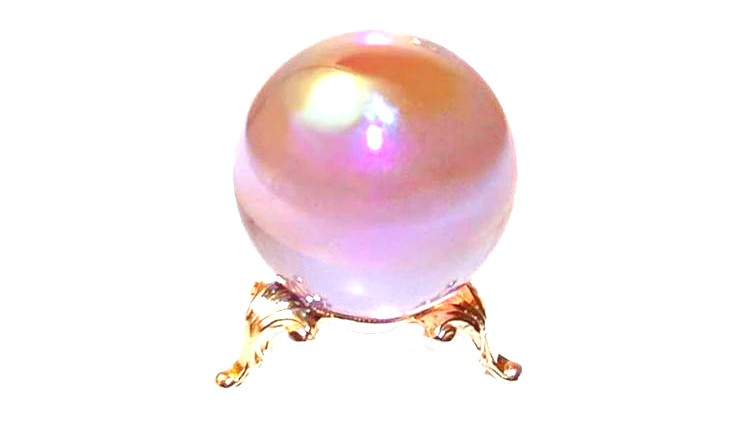
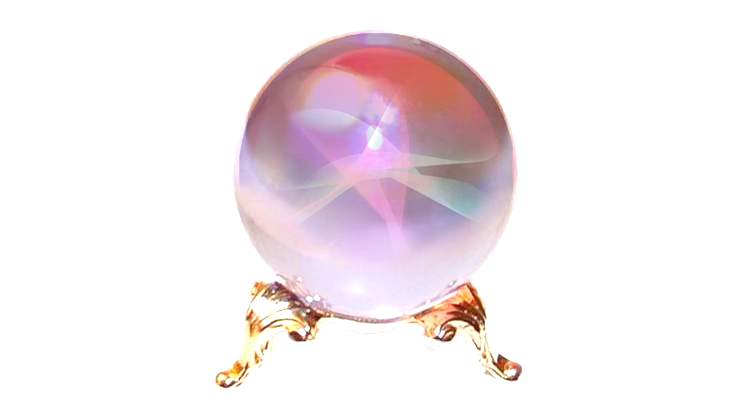
upload

Changed region(s): [[0.2812, 0.0605, 0.7188, 0.9975]]

diff --git a/index.html b/index.html
@@ -23,14 +23,6 @@
 
 </head>
 <body class="page">
-    <!-- Popups -->
-     <div class="popup hide greentext">
-        Oh dear...
-     </div>
-     <div class="popup1 hide greentext">
-        Not looking good...
-     </div>
-
      <div class="popupimg1 hide"><img src="abc-logo-1988.png" alt=""></div>
      <div class="popupimg2 hide"><img src="bbclogo.png" alt=""></div>
 
@@ -43,20 +35,27 @@
     <div class="Btitle pt italic">Techgnosis</div>
     <div class="bggreen height"></div>
     <div class="container">
-        <div class="Vfont width19 al mpt">Tarot Card Reading<br>Astral Glimmers<br>Escape Velocity<br>Juxtapositions<br>Crystal Ball Reading<br>Enigmatic Currents<br>Enlightenment Myth<br>Deep Weirdness<br>Algorithmic Agents<br>Editor's Note</div>
-        <div class="Vfont width19 ar mpt">1<br>2<br>3<br>4<br>5<br>6<br>7<br>8<br>9<br>10</div>
+        <div class="Vfont width19 al mpt">Tarot Card Reading<br>Astral Glimmers<br>Escape Velocity<br>Juxtapositions<br>Horoscope Reading<br>Enigmatic Currents<br>Enlightenment Myth<br>Deep Weirdness<br>Crystal Ball Reading<br>Algorithmic Agents<br>Editor's Note</div>
+        <div class="Vfont width19 ar mpt">1<br>2<br>3<br>4<br>5<br>6<br>7<br>8<br>9<br>10<br>11</div>
     </div>
 
     <div class="Mtitle ar italic pbs">by Erik Davis</div>
-    <div class="container">
-        <div class="lefthand width50 mt"><img src="lefthand.png" alt=""></div>
-        <div class="bhand width50 mt ml ar"><img src="hand.png" alt=""></div>
+    <div class="greentext bf ac movedown mt">Take a deep breath.<br>Select three cards.</div>
+    <div class="container ac">
+        <div class="lefthand width50"><img src="lefthand.png" alt=""></div>
+        <div class="bhand width50 mll ar"><img src="hand.png" alt=""></div>
     </div>
     <div class="container ac glowimage">
-        <div class="width20 ml ac"><img src="tarot1.png" alt=""></div>
-        <div class="width20 ml ac"><img src="tarot2.png" alt=""></div>
-        <div class="width19 ml ac"><img src="tarot3.png" alt=""></div>
+        <div class="width20 ml ac"><img src="newtarot1.png" alt=""></div>
+        <div class="width20 ml ac"><img src="newtarot2.png" alt=""></div>
+        <div class="width19 ml ac"><img src="newtarot3.png" alt=""></div>
     </div>
+    <div class="container bml ac">
+        <div class="width20 bml greentext bf ac moveup2">Do you rely upon digital connections to fulfill your social life?</div>
+        <div class="width20 greentext bml bf ac moveup2">Do you remember anything from your last doomscroll?</div>
+        <div class="width20 greentext bml bf ac moveup2">Have you lost touch with your offline self?</div>
+    </div>
+    <div class="greentext al moveup">2</div>
     <div class="container">
         <div class="width25 astralhighlight bml">Astral Glimmers</div>
         <div class="width50 bml al quote pbss">There was a peculiar feeling in the air those days, at least in my neck of the woods, an ambient sense of arcane possibility, cultural mutation, and delirious threat that, though it may have only reflected my youth, seemed to presage more epochal changes to come.</div>
@@ -68,16 +67,18 @@
     </div>
     <div class="al bml dissolvingmaintext spt width85">I wrote an article in which I claimed that, in addition to dissolving the concentrated power of mass media, outlets like ABC, the onrushing proliferation of digital content channels and interactive media was going to savage “consensus reality” as well. It wasn’t just the technology that was going to change; the mass mind itself was, in an au courant bit of jargon from Deleuze and Guattari’s A Thousand Plateaus, going molecular. Molecular meant a thousand subcultures.</div>
 
-    <div class="maintext al bml width35 smt">Pockets of alternative practices across the spectrum crackled with millennialist intensity in the early nineties, as if achieving a kind of</div>
+    <div class="greentext al smt">3</div>
+    <div class="maintext al bml width35">Pockets of alternative practices across the spectrum crackled with millennialist intensity in the early nineties, as if achieving a kind of</div>
     <div class="titleescape bml italic al">Escape</div>
     <div class="titleescape bml italic ar bmr pbss">Velocity.</div>
     <div class="container">
         <div class="width25 bml al"></div>
         <div class="maintext al width50 bml">Underground currents of electronic music, psychedelia, rap, ufology, cyberculture, paganism, industrial postpunk, performance art, conspiracy theory, fringe science, mock religion, and other more or less conscious reality hacks invaded the spaces of novelty and possibility that emerged in the cracks of the changing media.</div>
     </div>
+    <div class="greentext al smt">4</div>
     <div class="container">
-        <div class="width25 juxtaposehighlight bml smt pbss">Juxtapositions</div>
-        <div class="width53 bml al quote smt pbss">As a journalist, as well as a heady seeker of sorts, I was already devoted to tracking the juxtaposition of spirituality and the material grit of popular culture, a juxtaposition that in the nineties came to include new technologies, human augmentation tech, and the dawning “space” of digital mediation.</div>
+        <div class="width25 juxtaposehighlight bml pbss">Juxtapositions</div>
+        <div class="width53 bml al quote pbss">As a journalist, as well as a heady seeker of sorts, I was already devoted to tracking the juxtaposition of spirituality and the material grit of popular culture, a juxtaposition that in the nineties came to include new technologies, human augmentation tech, and the dawning “space” of digital mediation.</div>
     </div>
     <div class="container">
         <div class="width30 bml"></div>
@@ -87,9 +88,11 @@
     <div class="al bml maintext spt width85 pbss">As I befriended technopagans or stumbled across cyborg passages in hermetic texts, I felt I no longer had choice in the matter. I was possessed by what Teilhard had called the “demon (or angel) of Research,” which is one way of describing what takes place when the object of study turns around and grabs you by the balls. I had to write TechGnosis</div>
     <div class="container">
         <div class="lefthand width50 mt"><img src="lefthand.png" alt=""></div>
-        <div class="bhand width50 mt ml ar"><img src="hand.png" alt=""></div>
+        <div class="bhand width50 mt mll ar"><img src="hand.png" alt=""></div>
     </div>
-    <div class="width70 ac crystalball"><img src="crystalball.png" alt=""></div>
+    <div class="width33 ac astrology"><img src="astrology.png" alt=""></div>
+    <div class="greentext bf ac moveup1">Please identify your sun, moon, and rising sign<br>...<br>How much of your digital identity is fantasy?<br>Is it a reflection of your hopes and dreams?<br>Where does your true personality lie?<br>Within the stars or within the screens?<br></div>
+    <div class="greentext al mt">6</div>
     <div class="maintext al bml width35">I think TechGnosis continues to speak despite its sometime anachronism because it taps the</div>
     <div class="titleenigmatic bml italic al pbss">Enigmatic</div>
     <div class="titleenigmatic bml italic ar bmr pbss">Currents</div>
@@ -98,9 +101,10 @@
         <div class="maintext al fantasywidth50 bml">of fantasy, hope, and fear that continue to charge our tools, and that speak even more deeply to the profound and peculiar ways those tools shape us in return. These mythic currents are as real as desire, as real as dream; nor do they simply dissipate when we recognize their sway.</div>
     </div>
 
+    <div class="greentext al smt">7</div>
     <div class="container">
-        <div class="width25 enlightenhighlight bml smt pbss">Enlightenment Myth</div>
-        <div class="width53 bml al quote smt pbss">Nonetheless, technoscience continues to propagate the Enlightenment myth of a rational and calculated life without myths, and to promote values like efficiency, productivity, entrepreneurial self-interest, and the absolute adherence to reductionist explanations for all phenomena.</div>
+        <div class="width25 enlightenhighlight bml pbss">Enlightenment Myth</div>
+        <div class="width53 bml al quote pbss">Nonetheless, technoscience continues to propagate the Enlightenment myth of a rational and calculated life without myths, and to promote values like efficiency, productivity, entrepreneurial self-interest, and the absolute adherence to reductionist explanations for all phenomena.</div>
     </div>
     <div class="container">
         <div class="width30 bml"></div>
@@ -114,27 +118,37 @@
         <div class="width20 ml trumpglowimage spt"><img src="trump.png" alt=""></div>
     </div>
 
-    <div class="maintext al bml width35 smt">That these two worlds of day and night are actually one matrix remains our central mystery: a rational world of paradoxically</div>
+    <div class="greentext al smt">8</div>
+    <div class="maintext al bml width35">That these two worlds of day and night are actually one matrix remains our central mystery: a rational world of paradoxically</div>
     <div class="titleweirdness bml italic al pbss">Deep</div>
     <div class="titleweirdness bml italic ar bmr pbss">Weirdness</div>
     <div class="container">
         <div class="width25 bml al"></div>
-        <div class="maintext al width50 bml">where, as in some dying earth genre scenario, technology and mystery lie side-by-side, not so much as explanations of the world but as experiences of the world.</div>
+        <div class="maintext al width50 bml pbss">where, as in some dying earth genre scenario, technology and mystery lie side-by-side, not so much as explanations of the world but as experiences of the world.</div>
     </div>
 
+    <div class="container ac">
+        <div class="lefthand width50 mt moveup"><img src="lefthand.png" alt=""></div>
+        <div class="bhand width50 mt mll ar moveup"><img src="hand.png" alt=""></div>
+    </div>
+    <div class="width70 ac crystalball"><img src="crystalball.png" alt=""></div>
+    <div class="greentext bf ac">Go ahead... I'm listening.<br><br><br><br><br><br><br><br><br>I'm still listening.</div>
 
+    <div class="greentext al smt">10</div>
     <div class="container">
-        <div class="width25 algorithmhighlight bml pbss bf smt">Algorithmic Agents</div>
-        <div class="width53 bml al quote pbss bf smt">As in the tale of the sorcerer’s apprentice, algorithmic agents will be understood as possessing a mind of their own, or serve as proxies for invisible agents of crime or all-watching control.</div>
+        <div class="width25 algorithmhighlight bml pbss bf">Algorithmic Agents</div>
+        <div class="width53 bml al quote pbss bf">As in the tale of the sorcerer’s apprentice, algorithmic agents will be understood as possessing a mind of their own, or serve as proxies for invisible agents of crime or all-watching control.</div>
     </div>
     <div class="container">
         <div class="width30 bml"></div>
         <div class="width20 ml droneglowimage"><img src="drone.png " alt=""></div>
         <div class="dronewidth35 al ml">In other words, a kind of anxious animism, the mindframe once (wrongly) associated with the primitive origins of religion, is returning in a digitally remastered form. Intelligent objects, drones, robots, and deeply interactive devices are multiplying the nonhuman agents with whom we will be forced to negotiate, anticipate, and dodge in order to live our lives. </div>
     </div>
-    <div class="al bml maintext spt width85 pbss">One side of this new animism we already know by another name: paranoia, which will continue to remain an attractive (and arguably rational) existential option in our networked and increasingly manipulated world.</div>
+    <div class="al bml maintext spt width85 pbm">One side of this new animism we already know by another name: paranoia, which will continue to remain an attractive (and arguably rational) existential option in our networked and increasingly manipulated world.</div>
 
-    <div class="ac smt pbss">Like the warm crackles of vinyl, or the cosmic squiggles of a wild <br>modular synth, or the evocative glow of an actual Polaroid,<br>the resonant frequencies of a less networked world<br>still illuminate all my relations.</div>
+    <div class="bggreen height smt"></div>
+    <div class="greentext al"><br><br><br>11</div>
+    <div class="ac pbss"><br><br>Like the warm crackles of vinyl, or the cosmic squiggles of a wild <br>modular synth, or the evocative glow of an actual Polaroid,<br>the resonant frequencies of a less networked world<br>still illuminate all my relations.</div>
     <div class="ac mpt pbss">I do not feast on nostalgia,<br>but nostalgia is not the same thing as<br>affirming the gone world that still signals us now,<br>in the timeless time of transmission.</div>
     <div class="ac width10 erikglowimage"><img src="erik.png" alt=""></div>
     <div class="ac italic mpt pbss">Cyborg Reflections: Techgnosis Then</div>
@@ -149,7 +163,7 @@
     <div class="topmarquee">
         <span>Now streaming: Techgnosis</span>
     </div>
-    <video class="video ar" width="400px" src="finaleditedvid3.mp4"video/mp4">
+    <video class="video ar" width="350px" src="finaleditedvid3.mp4"video/mp4">
     </video>
     <div class="truegrit"></div>
  

diff --git a/websitestyle.css b/websitestyle.css
@@ -328,6 +328,9 @@ div.mr{
 div.ml{
     margin-left: 20px;
 }
+div.mll{
+    margin-left: 40px;
+}
 div.bmr{
     margin-right: 120px;
 }
@@ -391,6 +394,9 @@ div.pbs{
 div.pbss{
     padding-bottom: 25px;
 }
+div.pbm{
+    padding-bottom: 300px;
+} 
 div.ho{
     opacity: 60%;
     transition:all 1s ease;
@@ -446,10 +452,9 @@ div.width20.ml.ac:hover{
 div.width19.ml.ac:hover{
     transform:translateY(-20px);
 }
-div.lefthand.width50.mt{
+div.lefthand.width50{
     padding-left: -20px;
     margin-left: -20px;
-    position: relative;
     z-index: -1;
 }
 div.width20.ml.ac{
@@ -463,12 +468,10 @@ div.width19.ml.ac{
     bottom:200px
 }
 div.bhand{
-    position: relative;
-    z-index: 1;
-    padding-right:0px;
-    margin-right:0px;
-    overflow-x: hidden;
-    left: 20px;
+    z-index: -1;
+    margin-right:-20px;
+    padding-right: -20px;
+    left:-20px;
 }
 div.textgreen{
     color: greenyellow;
@@ -547,10 +550,28 @@ div.Vfont{
     position: fixed;
 }
 div.bf{
-    z-index: 3;
+    z-index: 4;
+}
+div.astrology{
+    z-index: 2;
+    position: relative;
+    bottom: 350px;
 }
 div.crystalball{
     z-index: 2;
+    margin-top: -350px;
+    z-index: 9;
     position: relative;
-    bottom: 340px;
+}
+div.greentext.bf.ac{
+    padding-top: 0px;
+}
+div.moveup{
+    margin-top: 300px;
+}
+div.moveup1{
+    margin-top: -300px;
+}
+div.moveup2{
+    margin-top: -150px;
 }

diff --git a/class-changes.js b/class-changes.js
@@ -1,6 +1,4 @@
 const classChanges = [
-  { time: 7, target: ".popup", remove: "hide" },
-  { time: 11, target: ".popup", add: "hide"},
   { time: 31, target: ".spellwidth35.al.ml", add: "textglow"},
   { time: 40, target: ".tpglowimage", add: "bglowimage" },
   { time: 52, target: ".astralhighlight", add:"newastralhighlight"},
@@ -14,14 +12,12 @@ const classChanges = [
   { time: 105, target: ".page", add: "pagenew1" },
   { time: 131, target: ".page", remove: "pagenew1" },
   { time: 140, target: ".juxtaposehighlight", add:"newjuxtaposehighlight"},
-  { time: 160, target: ".techgnosticwidth35.al.ml", add: "textglow"},
+  { time: 159, target: ".techgnosticwidth35.al.ml", add: "textglow"},
   { time: 169, target: ".marshallglowimage", add: "bglowimage"},
   { time: 183, target: ".techgnosticwidth35.al.ml", remove: "textglow"},
   { time: 183, target: ".marshallglowimage", remove: "bglowimage"},
   { time: 193, target: ".page", add: "pagenew2" },
   { time: 200, target: ".page", remove: "pagenew2" },
-  { time: 212, target: ".popup1", remove: "hide" },
-  { time: 215, target: ".popup1", add: "hide"},
   { time: 221, target: ".titleenigmatic.bml.italic.al.pbss", add: "newtitleenigmatic" },
   { time: 221, target: ".titleenigmatic.bml.italic.ar.bmr.pbss", add: "newtitleenigmatic" },
   { time: 239, target: ".fantasywidth50", add: "textglow"},
